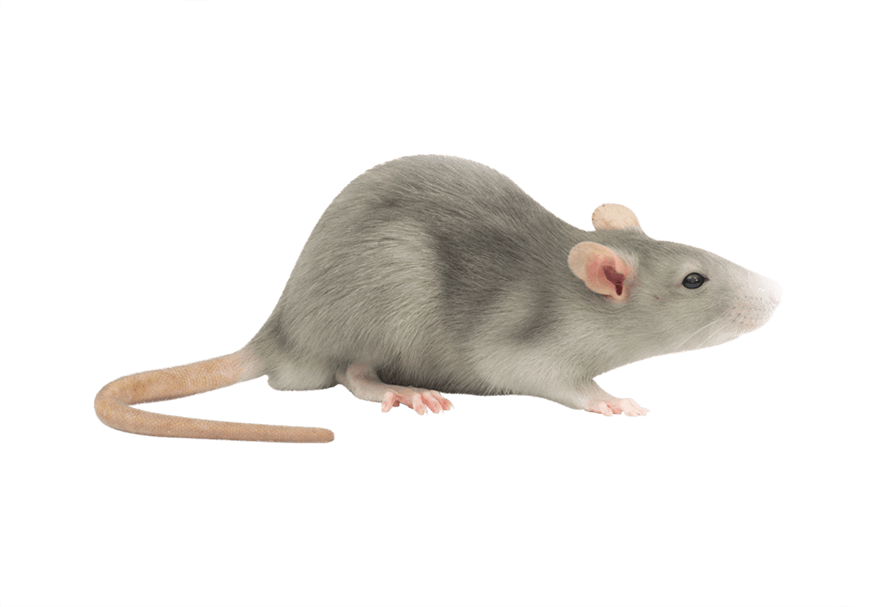
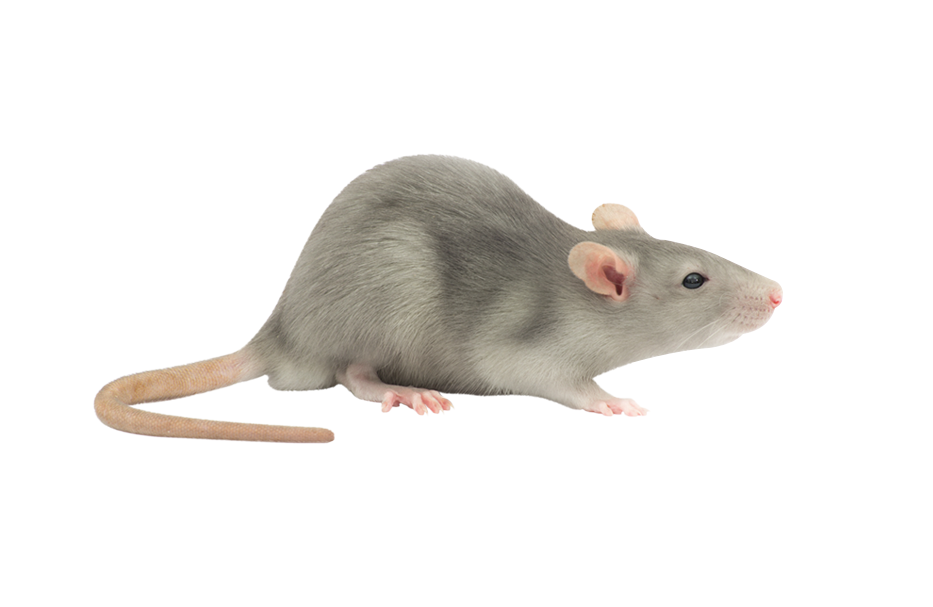
raton modificado

Changed region(s): [[0.091, 0.2372, 0.8798, 0.7117], [0.3337, 0.682, 0.3944, 0.7414]]

diff --git a/css/nosotros.css b/css/nosotros.css
@@ -483,7 +483,7 @@ section#images {
 }
 
 .noAutorizado{background: url("../images/bgblack.jpg");background-size: cover;padding-top: 40px;color: #FFF;font-size: 17px;border-bottom: 6px solid #00b25b ;}
-.raton {max-width: 730px; margin-left: -235px;margin-top: 0px; }
+.raton {max-width: 730px; margin-left: -210px;margin-top: 15px;}
 .manoStop {max-width: 500px;float: right;margin-right: -15px; }
 .autorizado {font-size: 35px; font-weight: bold; }
 .insectos {width: 170px;margin-top: 20px; }
@@ -707,7 +707,7 @@ section#images {
 }
 
 @media(max-width: 1200px){
-    .raton {max-width: 600px; margin-left: -198px; }
+    .raton {max-width: 600px; margin-top: 60px;margin-left: -198px; }
     .manoStop {max-width: 470px; }
     .insectos {width: 120px; }
 }
@@ -749,16 +749,6 @@ section#images {
     .cuatro{width: initial;}
 }
 
-@media (max-width: 900px){
-.manoStop {max-width: 320px; }
-.noAutorizado {font-size: 13px; }
-.autorizado {font-size: 24px; }
-.insectos {width: 90px; }
-.algo {font-size: 21px; }
-.raton {max-width: 500px; margin-left: -166px; margin-top: -38px; }
-.bgnegro {height: 300px; }
-}
-
 @media (max-width: 960px) {
 	#tipo{
 		display: none;
@@ -777,6 +767,16 @@ section#images {
 	}
 }
 
+@media (max-width: 900px){
+.manoStop {max-width: 320px; }
+.noAutorizado {font-size: 13px; }
+.autorizado {font-size: 24px; }
+.insectos {width: 90px; }
+.algo {font-size: 21px; }
+.raton {max-width: 500px; margin-left: -166px; margin-top: -8px; }
+.bgnegro {height: 300px; }
+}
+
 @media (max-width: 820px){
 	.formatoSlider{
 	width: 260px;
@@ -791,6 +791,7 @@ section#images {
 }
 
 @media (max-width: 768px) {
+	.raton {max-width: 500px; margin-left: -166px; margin-top: -0px; }
 	.tituloSomos{
 	margin-top: -22em;
 	margin-left: 5%;
